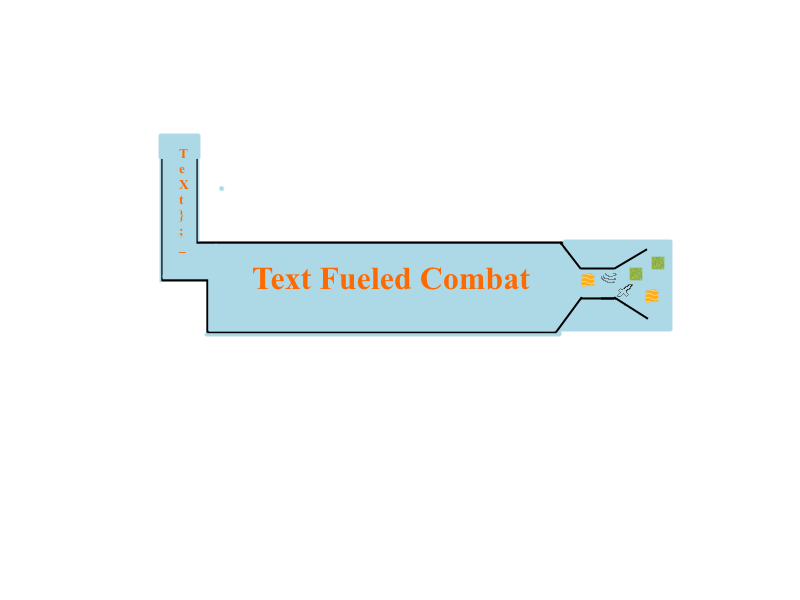
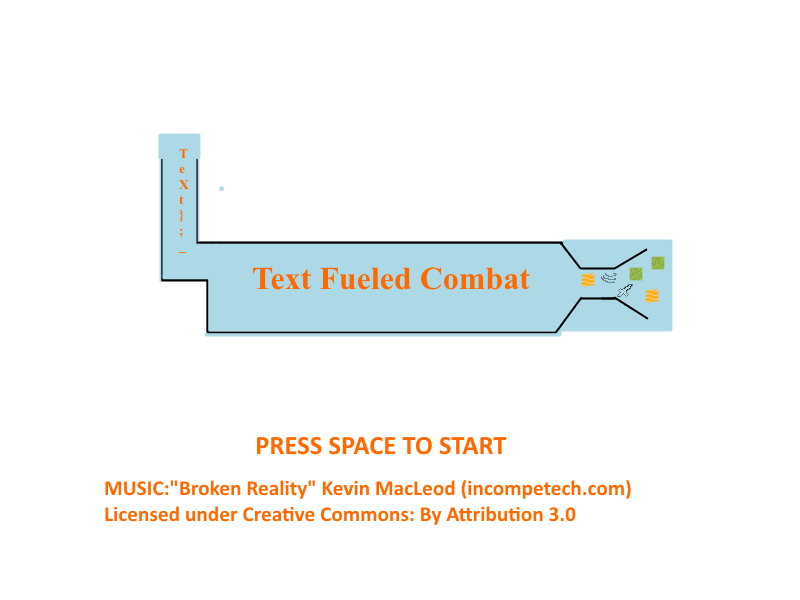
Changed title screen to require spacebar press to continue.
Also added check to prevent player chars from being moved on top of one
another.
Removed some unneeded code.

Changed region(s): [[0.125, 0.72, 0.8125, 0.87]]

diff --git a/web/textfueledcombat.dart b/web/textfueledcombat.dart
@@ -7,7 +7,6 @@ Pathfinder finder;
 
 void main()
 {
-
   new Tfc();
   //TODO Title screen and/or startup sequence?
 }
@@ -18,7 +17,7 @@ class Tfc
   
   Tfc()
   {
-    map = new GameMap(10, 12);
+    map = new GameMap(12, 14);
     Game game = new Game(800, 600, AUTO, 'canvasDiv');
     game.stage.setBackgroundColor(0xADD8E6);
     State state, state2, state3; 
@@ -41,7 +40,6 @@ class MapRenderState extends State
   Map<AttackType, Sprite> attackButtons;
   Map<AttackType, Text> chargeDisplays;
   Character selected;
-  Text playerText, enemyText;
   AttackType selectedPlayerAtk;
   final String placeholderText = '----\n--/--';
   BitmapData selectorTexture;
@@ -56,8 +54,6 @@ class MapRenderState extends State
     } else if (val != turnVal) {
       turnVal = val; 
       if (val == 0) {
-        //Reset playerText
-        playerText.setText(placeholderText);
         map.playerTeam.forEach((Character player) {
           player.tired = false;
           player.hasMoved = false;
@@ -172,11 +168,6 @@ class MapRenderState extends State
       map.enemyTeam[i].hpBar = createHpBar(game, world.width - 104, 64 + 68 * i);
     }
     
-    //Setup displays for enemy and player HP.
-    TextStyle style = new TextStyle(fill:'#FFFFFF' , font:'10px Arial' , align:'left');
-    playerText = game.add.text(500, 400, placeholderText, style);
-    enemyText = game.add.text(500, 420, placeholderText, style);
-    
     //Add buttons to the world
     waitButton = addGameButton(game, 0, 438, 'button', 'Wait', onWaitClicked);
     attackButtons[AttackType.SWORD] = addGameButton(
@@ -236,7 +227,6 @@ class MapRenderState extends State
       selected = map.playerTeam.firstWhere((Character c) {
         return c.sprite == sprite;
       }, orElse: () { /*Do nothing */ });
-      playerText.setText("${selected.name}\n${selected.hpCurrent}/${selected.hpMax}");
       window.alert("Clicked! Unit ${selected.name} is now selected! pos (${sprite.position.x},${sprite.position.y})");
       //Enable all attack buttons for those attacks which the character has charges.
       attackButtons.forEach((AttackType type, Sprite sprite) {
@@ -269,7 +259,6 @@ class MapRenderState extends State
     Character target = map.enemyTeam.firstWhere((Character c) {
       return sprite == c.sprite;
     });
-    enemyText.setText("${target.name}\n${target.hpCurrent}/${target.hpMax}");
     
     if (selected != null) {
       try {
@@ -280,12 +269,10 @@ class MapRenderState extends State
           playAttackSound(selectedPlayerAtk);
           selectedPlayerAtk = null;
           selected = null;
-          enemyText.setText("${target.name}\n${target.hpCurrent}/${target.hpMax}");
           redrawHpBar(game, target);
         
           if (target.hpCurrent <= 0) {
             map.enemyTeam.remove(target);
-            enemyText.setText(placeholderText);
           }
         } else {
           //TODO Error feedback to UI e.g. "You must select an attack type."
@@ -320,7 +307,10 @@ class MapRenderState extends State
               selectedTileY = j;
             } else if (i == selectedTileX && j == selectedTileY) {
               tileSelector.destroy();
-              selected.moveTo(i, j, map, game, finder: finder);
+              //Make sure there isn't another player char there already..
+              if (map.getUnitAt(selectedTileX, selectedTileY) == '') {
+                selected.moveTo(i, j, map, game, finder: finder);
+              }
               selectedTileX = -1;
               selectedTileY = -1;
             } else {
@@ -422,8 +412,6 @@ class MapRenderState extends State
           targetPlayer = map.playerTeam[i];
         }
       }
-      enemyText.setText("${enemy.name}\n${enemy.hpCurrent}/${enemy.hpMax}");
-      playerText.setText("${targetPlayer.name}\n${targetPlayer.hpCurrent}/${targetPlayer.hpMax}");
       //At this point the closest target has been found, although they may be too far away
       //to hit this turn.
       Future fut;
@@ -459,7 +447,6 @@ class MapRenderState extends State
           playAttackSound(chosenType);
           //update after dealing damage
           redrawHpBar(game, targetPlayer);
-          playerText.setText("${targetPlayer.name}\n${targetPlayer.hpCurrent}/${targetPlayer.hpMax}");
           if (targetPlayer.hpCurrent <= 0) map.playerTeam.remove(targetPlayer);
         } on AttackRangeException catch (e) {
           print("Enemy attack failed! range issue");
@@ -549,8 +536,8 @@ class FileWaitState extends State
   
   create()
   {
-    TextStyle style = new TextStyle(font: "45px Arial", fill: "#ffffff", align: "center");
-    game.add.text(game.world.centerX, game.world.centerY, 'Waiting for text file...', style);
+    TextStyle style = new TextStyle(font: "45px Arial", fill: "#ffffff", align: "left");
+    game.add.text(game.world.centerX - 200, game.world.centerY, 'Waiting for text file...', style);
   }
   
   update()
@@ -558,7 +545,6 @@ class FileWaitState extends State
     if (ie.files.isNotEmpty) {
       map.generateMap(ie.files[0])
       .then((_) {
-        //TODO Review: Is map.width a good max search distance? 
         finder = new AStarPathFinder(map, 50);
         game.state.start('maprender');
       });
@@ -574,6 +560,7 @@ class FileWaitState extends State
 class TitleState extends State
 {
   String assetPath;
+  Key spaceBar;
   
   TitleState(String assetPath)
   {
@@ -591,8 +578,17 @@ class TitleState extends State
     game.add.sprite(0, 0, 'title');
     game.add.audio('mainTheme', 1.0, true)
     .play('', 0, 1.0, true);
-    Timer t = game.time.create();
-    t.add(3000, () => game.state.start('wait'));
-    t.start();
+    //Timer t = game.time.create();
+    ///t.add(3000, () => game.state.start('wait'));
+    //t.start();
+    spaceBar = game.input.keyboard.addKey(Keyboard.SPACEBAR);
+  }
+  
+  update()
+  {
+    //Leave title screen once space is pressed.
+    if (spaceBar.isDown) {
+      game.state.start('wait');
+    }
   }
 }

diff --git a/web/character.dart b/web/character.dart
@@ -152,15 +152,7 @@ class Character implements Mover
       }
       if (path == null) {
         TileType tt = map.whatTile(x, y);
-        window.alert("Path blocked! At ($x,$y) there is a tile of type ${tt.value}");
-        //for (int a = 0; a < map.height; a++) {
-        //  var temp = "";
-        //  for (int b = 0; b < map.width; b++) {
-        //    bool boolL = map.blocked(null, a, b);
-        //    temp += boolL.toString() + " ";
-        //  }
-        //  print(temp);
-        //}
+        //window.alert("Path blocked! At ($x,$y) there is a tile of type ${tt.value}");
         return null;
       }
       print("Printing path steps...");
